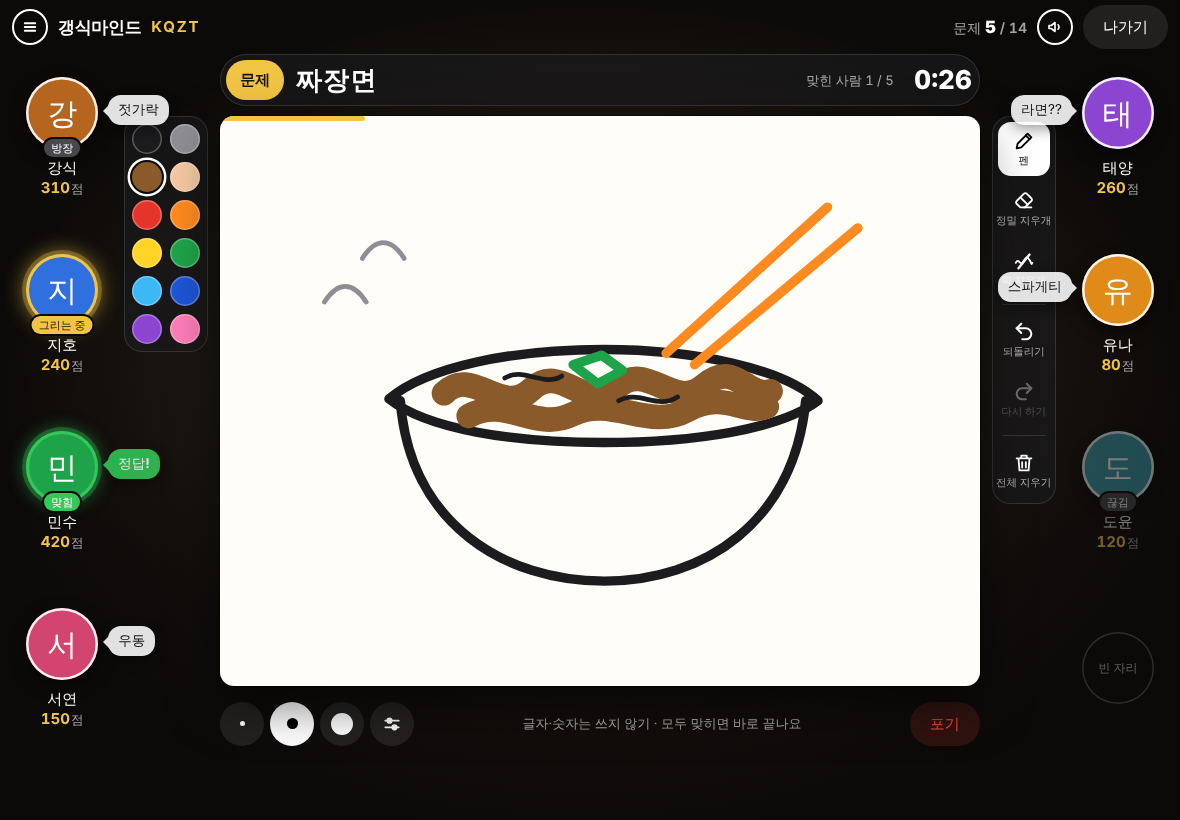
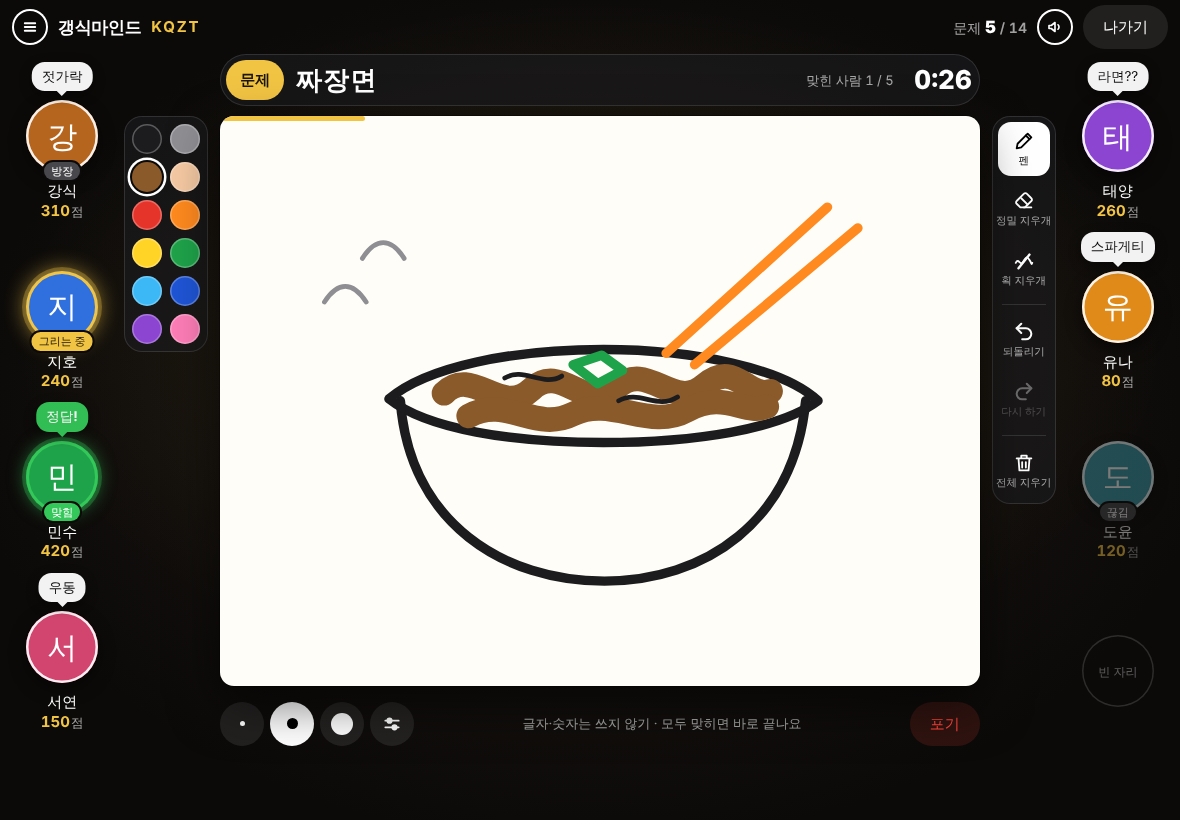
갱식마인드: 기획서 v1.0 확정, 말풍선 위치 수정
Claude-Session: https://claude.ai/code/session_01HLnaqZjB45q4jBceVSssci

diff --git a/design/draw/index.html b/design/draw/index.html
@@ -92,7 +92,14 @@ svg{display:block}
 .dr-seats.r .dr-say::before{right:-12px;border-left-color:#fff}
 .dr-say.ok{background:var(--green);color:#fff;font-weight:700}
 .dr-seats.l .dr-say.ok::before{border-right-color:var(--green)}.dr-seats.r .dr-say.ok::before{border-left-color:var(--green)}
-.mine .dr-say{max-width:104px;opacity:.88}
+/* 그리는 사람 화면(PC·iPad): 말풍선을 프로필 위로 띄워 색·도구 칸을 가리지 않는다 */
+@media (min-height:481px){
+  .mine .dr-seats{padding-top:26px}
+  .mine .dr-seats .dr-say{left:50%;right:auto;top:auto;bottom:calc(100% + 9px);max-width:118px;transform:translateX(-50%);transform-origin:50% 100%;animation-name:dr-pop-up}
+  .mine .dr-seats .dr-say::before{top:auto;bottom:-12px;left:50%;right:auto;margin-left:-7px;border-color:transparent;border-top-color:#fff}
+  .mine .dr-seats .dr-say.ok::before{border-color:transparent;border-top-color:var(--green)}
+}
+@keyframes dr-pop-up{from{transform:translateX(-50%) scale(.4);opacity:0}}
 @keyframes dr-pop{from{transform:scale(.4);opacity:0}}
 @media (prefers-reduced-motion:reduce){.dr-say{animation:none}}
 .mk-still .dr-say{animation:none}

diff --git a/docs/draw/GDD.md b/docs/draw/GDD.md
@@ -1,9 +1,9 @@
-# 갱식마인드 기획서 (GDD) — v0.2
+# 갱식마인드 기획서 (GDD) — v1.0 확정판
 
 갱식 클럽 안의 네 번째 게임. 한 사람이 단어를 그림으로 그리고 나머지가 채팅으로 맞힌다.
-표시: ✅ 사용자가 정함 · ☑ 기본안(사용자가 정하지 않아 기획이 정함. 바꿀 수 있음) · ⬜ 미정(사용자 확인 필요, 13절).
+표시: ✅ 사용자가 정함 · ☑ 기본안(사용자가 정하지 않아 기획이 정함. 바꿀 수 있음) · ⬜ 미정. 확정 상태는 13절.
 시안: `design/draw/index.html`(정적, 가짜 데이터) · 스크린샷 `design/draw/shots/`.
-이 문서는 기획이다. 코드는 아직 없다. 3D·소리·실기기 느낌(iPad·Safari·펜슬)은 전부 **미확인(실기기 확인 필요)**.
+이 문서가 구현의 기준이다(통신은 10절, 모듈 나누기는 11-1절). 코드는 아직 없다. 3D·소리·실기기 느낌(iPad·Safari·펜슬)은 전부 **미확인(실기기 확인 필요)**.
 
 ## 1. 한 줄 소개와 이름
 
@@ -86,11 +86,11 @@
 ### 3-4. 한 문제의 끝과 점수 (✅ 사용자: "여러 명이 맞힐 때까지, 빠를수록 높은 점수")
 
 - 한 문제는 **시간이 끝나거나, 그리는 사람을 뺀 모두(접속 중인 사람)가 맞히면** 끝난다. 그 밖에 포기·넘김·그리는 사람 나감.
-- ☑ 첫 정답이 나왔을 때 남은 시간이 30초보다 길면 **30초로 줄인다**(기다리는 시간이 길어지지 않게. 화면에 "30초 남았어요").
-- 맞힌 사람 점수 = **40 + 60 × (맞힌 순간 남은 시간 ÷ 그리는 시간)**, 소수점 반올림. **첫 정답자는 +20.**
+- ✅ 첫 정답이 나왔을 때 남은 시간이 30초보다 길면 **30초로 줄인다**(기다리는 시간이 길어지지 않게. 화면에 "30초 남았어요").
+- ✅ 맞힌 사람 점수 = **40 + 60 × (맞힌 순간 남은 시간 ÷ 그리는 시간)**, 소수점 반올림. **첫 정답자는 +20.**
   - 예(2분 20초, 5명이 맞히는 중): 18초에 첫 정답 → 40 + 52 + 20 = **112점**. 시간이 30초로 줄고, 25초 남기고 맞히면 40 + 11 = **51점**, 14초 남기고 맞히면 **46점**.
   - 한 문제에서 맞힌 사람은 최소 40점, 최대 120점.
-- 그린 사람 점수 = **100 × (맞힌 사람 수 ÷ 맞힐 수 있던 사람 수)**, 반올림. 예: 5명 중 3명 → 60점. 모두 맞히면 100점.
+- ✅ 그린 사람 점수 = **100 × (맞힌 사람 수 ÷ 맞힐 수 있던 사람 수)**, 반올림. 예: 5명 중 3명 → 60점. 모두 맞히면 100점.
 - 아무도 못 맞히면 모두 0점. 포기·넘김·나감이면 그린 사람은 0점, 이미 맞힌 사람의 점수는 그대로.
 - 순위: 점수 큰 순 → 맞힌 횟수 큰 순 → 같으면 공동 순위.
 
@@ -129,7 +129,7 @@
 - ☑ 기본으로 쓰는 주제 8개(800개): 음식, 동물, 직업, 장소, 스포츠, 물건, 취미, 탈것.
 - ☑ 기본으로 끄는 주제 3개: 영화·만화, 나라·도시, 인물 — 그림으로 설명하기 어렵고 글자를 쓰고 싶어진다. 방장이 방 설정에서 켤 수 있다.
 - ☑ 스타 버전 묶음(`sets.star`)은 1차에서 쓰지 않는다(연예인·브랜드·롤챔프는 그리기 어렵다).
-- ⬜ 그림용으로 단어를 따로 고르는 일(너무 어려운 단어 빼기)은 실제로 해 본 뒤 결정. 필요하면 `docs/draw/WORDS.md`에 "빼는 단어" 목록만 둔다(원본은 그대로).
+- ☑ 그림용으로 단어를 따로 고르는 일(너무 어려운 단어 빼기)은 실제로 해 본 뒤 결정. 필요하면 `docs/draw/WORDS.md`에 "빼는 단어" 목록만 둔다(원본은 그대로).
 
 ## 6. 그림판
 
@@ -178,7 +178,7 @@
 |---|---|
 | 네모·원(테두리/채움) | 손으로 그리는 게 더 빠르고 버튼 4개가 휴대폰 자리를 차지한다 |
 | 직선 | 쓸 일이 드물다 |
-| 채우기(페인트 통) | 부드러운 선(가장자리가 흐림)과 만나면 틈·테두리가 남고 기기마다 결과가 달라질 수 있다. 굵게 24로 대신 칠한다. ⬜ 해 보고 아쉬우면 2차에 추가 |
+| 채우기(페인트 통) | 부드러운 선(가장자리가 흐림)과 만나면 틈·테두리가 남고 기기마다 결과가 달라질 수 있다. 굵게 24로 대신 칠한다. ✅ 빼고 시작. 해 보고 아쉬우면 2차에 추가 |
 | 투명도·크기 막대 | 맞히기에 도움이 안 되고 조작이 하나 늘어난다 |
 | 색 직접 만들기·스포이드 | 12색이면 충분하다 |
 | 확대·이동, 겹(레이어) | 2분짜리 그림에 과하다 |
@@ -216,7 +216,7 @@
 | 좌표 | 그림판은 항상 4:3, 내부 좌표 **1600×1200**(= 800×600의 반 픽셀 단위 정수). 화면 크기가 달라도 모두 같은 그림을 본다 |
 | 입력 | Pointer Events 하나로 마우스·손가락·펜을 받는다. `pointermove`마다 `getCoalescedEvents()`로 **브라우저가 묶어 버린 중간 점까지 전부** 쓴다(없으면 마지막 점만) |
 | 점 간격 | 앞 점과 **2px(800 기준) 미만**이면 버린다. 한 번 누르고 떼기만 하면 점 하나(동그라미)로 그린다 |
-| 떨림 줄이기 | 새 점 = 앞 점 35% + 손 위치 65%(가벼운 보정). 펜슬은 보정 없음(100%). ⬜ 값은 실기기에서 조절 |
+| 떨림 줄이기 | 새 점 = 앞 점 35% + 손 위치 65%(가벼운 보정). 펜슬은 보정 없음(100%). ☑ 값은 실기기에서 조절 |
 | 곡선 | 점과 점을 직선으로 잇지 않는다. **가운뎃점 2차 베지어**: 이웃한 두 점의 가운뎃점에서 다음 가운뎃점까지, 실제 점을 조절점으로 `quadraticCurveTo`. 각이 지지 않는다 |
 | 선 끝·이음 | `lineCap = 'round'`, `lineJoin = 'round'` |
 | 선명함 | 캔버스 실제 크기 = 보이는 크기 × `devicePixelRatio`(최대 2). 화면 크기가 바뀌면 저장된 선으로 다시 그린다(그림이 흐려지거나 사라지지 않는다) |
@@ -254,7 +254,7 @@
   - 표시 시간 **3.5초** 뒤 흐려지며 사라진다. 같은 사람이 새로 말하면 바로 **교체**한다.
   - 최대 폭 170px, **두 줄**까지 줄바꿈, 넘으면 `…`. 휴대폰은 한 줄·최대 124px.
   - 그림을 가리지 않게: 말풍선은 칸과 그림판 사이의 빈 자리에 뜨고, 길면 **그림판 가장자리에 조금 겹친다**(왼쪽·오른쪽 끝은 그림이 드문 자리). 약간 비치게(95%) 하고 **누를 수 없게** 한다(밑의 색·도구가 그대로 눌린다).
-    그리는 사람 화면에서는 색·도구 칸을 덜 가리도록 폭을 104px로 줄이고 더 비치게(88%) 한다.
+    ✅ **그리는 사람 화면(PC·iPad)에서는 말풍선을 프로필 위쪽으로 띄운다**(꼬리가 아래). 색·도구 칸과 그림판을 가리지 않는다. 폭 최대 118px.
   - 정답을 맞힌 말: 글자는 보이지 않고 **초록 말풍선 "정답!"** 만 뜬다. 맞힌 사람끼리 하는 말: 맞힌 사람·그리는 사람에게는 초록 테두리 말풍선으로 글이 보이고, 못 맞힌 사람에게는 **아무것도 뜨지 않는다**(글이 전송되지 않는다).
   - 휴대폰 가로: 맞히는 사람은 왼쪽 목록의 줄 옆으로 말풍선이 튀어나와 그림판 왼쪽 끝에 겹친다(오른쪽 채팅 기록도 그대로). 그리는 사람은 그림판·색을 가리지 않게 **그 줄 안**(점수 자리)에 잠깐 뜬다.
   - 움직임: 말풍선은 꼬리 쪽에서 톡 커지며 나타난다(0.28초).
@@ -332,59 +332,157 @@
 - 그림 선은 서버가 그대로 전달하되 형식·범위·양을 검사하고, 그 문제의 선 목록을 기억한다(재전송용). 문제가 끝나면 지운다.
 - 갱식마인드 방에서 포커·라이어 전용 요청이 오면 `'지금은 할 수 없습니다.'`(죽지 않는다).
 
-## 10. 통신 메시지 (제안. 확정되면 SPEC 7절에 먼저 적는다)
+## 10. 통신 메시지 (✅ 확정. 서버와 화면은 이 절만 보고 따로 만든다. 바꾸려면 이 절을 먼저 고친다)
 
-기존 `login`·`create`·`join`·`leave`·`start`·`chat`·`room`·`event`·`error`를 그대로 쓴다. 갱식마인드 전용 요청은 전부 **`{t:'dr', a: 종류, ...}`** 한 봉투.
+WebSocket `/ws`, JSON, `{t: 종류, ...}`. 기존 SPEC 7절을 그대로 쓰고 갱식마인드에 필요한 것만 더한다.
+갱식마인드 전용 요청은 전부 **`{t:'dr', a: 종류, ...}`** 한 봉투. `protocol.js`는 봉투(`t:'dr'`, `a`는 글자 1~20자)만 보고, 속은 `shared/draw/protocol.js`가 검사한다.
+방은 `mode:'draw'`. 서버가 모든 규칙과 시간을 판정한다. 화면의 진짜 상태는 항상 `room.state`이고, **그림만 예외로 `event`가 진짜 데이터**다(10-5).
 
-화면 → 서버
+### 10-1. 공통 값
 
-| 메시지 | 필드 | 누가·언제 | 설명 |
+| 이름 | 값 |
+|---|---|
+| 좌표 | 정수. x `0..1600`, y `0..1200`(= 800×600의 반 픽셀 단위) |
+| 색 `c` | 정수 `0..11`(6-2 색 표의 순서 − 1) |
+| 굵기 `w` | 정수 `2..40`(800×600 기준 px) |
+| 점 배열 `p` | 정수 배열. **선의 첫 메시지(`st`)** 는 `[x0, y0, dx1, dy1, dx2, dy2, ...]`, **이어지는 메시지(`pt`)** 는 `[dx, dy, ...]`(바로 앞 점과의 차이). 길이는 짝수, 한 메시지에 최대 128개 숫자(64점), 차이값은 `-1600..1600` |
+| 한 일(op) | `{c, w, e, p}`(선. `e:0` 펜, `e:1` 정밀 지우개. `p`는 `st`와 `pt`를 이어 붙인 것) · `{rm:[선 번호...]}`(획 지우개 한 묶음) · `{clear:1}`(전체 지우기) |
+| 선 번호 | 그 한 일이 목록 `ops`에서 차지하는 **자리 번호**(0부터). 서버와 모든 화면이 같은 순서로 세므로 따로 보내지 않는다 |
+| 위치 `at` | 지금 화면에 반영된 한 일의 개수. `ops[0..at)`만 그려진 것이다. 되돌리기 `at-1`, 다시 하기 `at+1` |
+| 한도 | 한 문제에 한 일 600개, 점 60,000개, 선 하나에 점 4,000개 |
+
+한 일 목록 규칙(서버와 화면이 똑같이 적용, `shared/draw/ops.js` 하나를 함께 쓴다):
+- 새 한 일(`st`·`rm`·`clear`)이 오면 `ops`를 `at`까지만 남기고(다시 하기 목록 버림) 뒤에 붙인 뒤 `at = ops.length`.
+- `rm`에 `g:1`이 있고 `ops`의 마지막이 `rm`이며 `at === ops.length`이면 새로 붙이지 않고 그 `rm`의 번호 목록에 더한다.
+- 그리기: `ops[0..at)`을 순서대로. 선은 그리고, `clear`는 종이를 비우고, `rm`에 든 번호의 선은 처음부터 없던 것으로 친다.
+- `rm`의 번호는 `at`보다 작고, 펜 선(`e:0`)이고, 이미 지워지지 않은 것만 받는다.
+
+### 10-2. 화면 → 서버
+
+기존 메시지: `login`, `avatar`, `join{code}`, `leave`, `emote`, `pemote`, `snd…`는 그대로.
+
+| 메시지 | 필드(타입) | 누가·언제 | 결과 |
 |---|---|---|---|
-| `create` | `mode:'draw'` | 로비 | 방 만들기. `DRAW=off`면 `'갱식마인드는 아직 열리지 않았습니다.'` |
-| `start` | | 방장, 방 대기·최종 순위 | 시작 / 한 판 더 |
-| `chat` | `text` | 맞히는 사람 | 정답 입력을 겸한다(1~40자). 그리는 사람은 거절. 정답이면 채팅으로 내보내지 않는다. 맞힌 사람의 글은 맞힌 사람·그리는 사람에게만 |
-| `dr` `settings` | `order?:'seq'\|'hit'\|'rand'`, `rounds?:1\|2\|3\|5`, `time?:60\|90\|140`, `len?:bool`, `topics?:[이름]` | 방장, 방 대기 | 바꿀 것만 |
-| `dr` `pick` | `i:0..2` | 그리는 사람, 단어 고르기 | |
-| `dr` `st` | `c:0..11`, `w:2..40`, `e:0\|1`, `p:[x,y, dx,dy, ...]` | 그리는 사람, 그리기 | 새 선 시작. `w`는 굵기(px), `e:1`은 정밀 지우개. 첫 점은 좌표, 나머지는 앞 점과의 차이(정수) |
-| `dr` `pt` | `p:[dx,dy,...]`, `f?:1` | 〃 | 지금 선에 점 추가(60ms마다). `f:1`이면 선 끝 |
-| `dr` `cx` | | 〃 | 지금 긋던 선 취소(손바닥) |
-| `dr` `rm` | `ids:[선 번호]`, `g?:1` | 〃 | 획 지우개: 그 선들을 지운다. `g:1`이면 바로 앞 `rm`과 같은 묶음(한 번 문지른 것). 서버는 번호가 있고 펜 선인지 검사 |
-| `dr` `undo` | | 〃 | 되돌리기(한 칸 뒤로) |
-| `dr` `redo` | | 〃 | 다시 하기(한 칸 앞으로). 살릴 것이 없으면 무시 |
-| `dr` `clear` | | 〃 | 전체 지우기 |
-| `dr` `give` | | 〃 | 포기 |
-| `dr` `skip` | | 방장, 그리기 | 이 문제 넘기기 |
-| `dr` `end` | | 방장, 진행 중 | 이 판 끝내기(방 대기로) |
-| `dr` `kick` | `id` | 방장, 방 대기 | 내보내기 |
+| `create` | `mode:'draw'` | 로비 | 방 생성. 스위치가 꺼져 있으면 `dr_off` |
+| `start` | — | 방장, `lobby`·`final` | 새 판. 접속 중 2명 미만이면 `dr_need2`, 켜진 주제가 없으면 `dr_topics` |
+| `chat` | `text: string`(1~40자) | 10-6 표 | 정답 판정을 겸한다 |
+| `dr` `settings` | `order?: 'seq'\|'hit'\|'rand'`, `rounds?: 1\|2\|3\|5`, `time?: 60\|90\|140`, `len?: boolean`, `topics?: string[]`(주제 이름, 1개 이상) | 방장, `lobby`·`final` | 보낸 칸만 바뀐다. 값이 틀리면 `dr_bad` |
+| `dr` `kick` | `id: string` | 방장, `lobby`·`final` | 내보냄(그 사람에게 `room:null` + `error dr_kicked`) |
+| `dr` `pick` | `i: 0\|1\|2` | 그리는 사람, `pick` | 단어 확정 → `draw` |
+| `dr` `st` | `c`, `w`, `e: 0\|1`, `p`(첫 메시지 모양) | 그리는 사람, `draw` | 새 선 시작. 앞 선이 안 끝났으면 끝난 것으로 친다 |
+| `dr` `pt` | `p`(이어지는 모양), `f?: 1` | 〃, 긋는 중인 선이 있을 때 | 점 추가. `f:1`이면 선 끝. 60ms마다 한 번 |
+| `dr` `cx` | — | 〃, 긋는 중 | 긋던 선을 없던 것으로(손바닥). 되돌리기 목록에 남지 않는다 |
+| `dr` `rm` | `ids: number[]`(1~50개), `g?: 1` | 〃, `draw` | 획 지우개 |
+| `dr` `undo` | — | 〃 | `at > 0`이면 `at-1`. 아니면 무시 |
+| `dr` `redo` | — | 〃 | `at < ops.length`이면 `at+1`. 아니면 무시 |
+| `dr` `clear` | — | 〃 | 전체 지우기(종이가 이미 비어 있으면 무시) |
+| `dr` `give` | — | 〃 | 포기 → `reveal`(`why:'give'`) |
+| `dr` `skip` | — | 방장, `pick`·`draw` | 이 문제 넘기기 → `reveal`(`why:'skip'`) |
+| `dr` `end` | — | 방장, `pick`·`draw`·`reveal` | 이 판 끝내기 → `lobby`(점수 저장 안 함) |
 
-서버 → 화면
+- 그림 요청(`st`·`pt`·`cx`·`rm`·`undo`·`redo`·`clear`)이 틀렸을 때(범위 밖, 한도 초과가 아닌 형식 오류, 그리는 사람이 아님, 단계가 다름)는 **오류 글 없이 버린다.** 보낸 사람이 그리는 사람이면 `drSync`를 다시 보내 화면을 서버와 맞춘다.
+- 한도를 넘으면 `dr_canvas_full`을 그리는 사람에게 보내고 그 선은 버린다.
+- 다른 방(포커·라이어)에서 `dr`이 오면 `'알 수 없는 요청입니다.'`. 갱식마인드 방에서 `mode`·`act`·`play`·`liar`·`lg`가 오면 `dr_now`.
 
-- `{t:'me', user, liar, draw:'off'|'test'|'on'}` — `me`에 `draw` 칸 하나 추가. 보이기 = `draw==='on' || (draw==='test' && 주소에 ?draw=1)`.
-- `rooms` 목록 항목에 `mode:'draw'`, `max:8`.
-- `room.state`(받는 사람 시점, `mode:'draw'`):
+### 10-3. 서버 → 화면
+
+| t | 필드 | 누구에게 | 설명 |
+|---|---|---|---|
+| `me` | `user{…, stats{…, draw{games, wins, correct, points}}}`, `liar`, **`draw: 'off'\|'test'\|'on'`** | 본인 | `draw` 칸 하나 추가. 보이기 = `draw==='on' \|\| (draw==='test' && 주소에 ?draw=1)` |
+| `rooms` | `list[]`의 항목에 `mode:'draw'`, `max:8`, `phase:'lobby'\|'playing'` | 로비에 있는 사람 | `lobby`·`final`이 아니면 `'playing'` |
+| `room` | `state`(10-4) 또는 `null` | 방 사람 각자(받는 사람 시점) | 바뀔 때마다. 그림이 바뀔 때는 보내지 않는다 |
+| `event` | `e{k, …}`(10-5) | 표에 적힌 사람 | |
+| `error` | `msg: string`(한국어), `code: string` | 본인 | 10-7. `code`는 시험과 화면 분기용(다른 게임의 오류에는 없어도 된다) |
+
+### 10-4. `room.state` (받는 사람 시점, `mode:'draw'`)
 
 ```js
-{ code, mode:'draw', hostId, you,
-  phase: 'lobby'|'pick'|'draw'|'reveal'|'final',
-  settings: { order, rounds, time, len, topics },
-  players: [{ id, name, seat, connected, score, hit }],        // hit = 이번 문제를 맞혔는가. 사진은 넣지 않는다(faces 알림으로 한 번)
-  roundNo, q, qTotal,                 // 1라운드, 문제 5 / 14
-  drawerId, endsAt,                   // 단계 끝 시각(epoch ms)
-  mask: '□□□' | null,                 // 글자 수 칸(띄어쓰기 자리는 공백). 끄면 null
-  word: null | '짜장면',              // 그리는 사람·이미 맞힌 사람, 또는 reveal 단계에서만
-  choices: null | [{w, topic}],       // 그리는 사람, pick 단계에서만
-  canUndo, canRedo,                   // 그리는 사람 버튼 흐리게 하기용
-  reveal: null | { word, why: 'all'|'time'|'give'|'idle'|'skip'|'left',
-                   gains: [{ id, pts, order }], drawerPts, nextId },
-  ranking: null | [{ id, rank, score, correct }] }             // final 단계
+{
+  code: 'KQZT', mode: 'draw', hostId: 'gangsik', you: 'jiho',
+  phase: 'lobby' | 'pick' | 'draw' | 'reveal' | 'final',
+  settings: { order: 'seq'|'hit'|'rand', rounds: 1|2|3|5, time: 60|90|140, len: true|false,
+              topics: ['음식', ...],            // 켜진 주제
+              allTopics: ['음식', ...] },       // 고를 수 있는 주제 전부(11개)
+  players: [{ id, name, seat,                   // seat = 자리 번호 0..7(들어온 순서, 빈 번호 채움)
+              connected: bool,
+              score: number,                    // 이번 판 점수
+              correct: number,                  // 이번 판에 맞힌 횟수
+              hit: bool,                        // 이번 문제를 맞혔는가(pick·draw 동안. 그 밖에는 false)
+              drew: bool }],                    // 이번 라운드에 이미 그렸는가
+  roundNo: 1, q: 5, qTotal: 14,                 // lobby 에서는 0, 0, 0
+  drawerId: id | null,                          // pick·draw·reveal 동안
+  endsAt: epochMs | null,                       // pick·draw·reveal 단계의 끝 시각. 첫 정답으로 줄면 새 값
+  rushed: bool,                                 // 첫 정답 뒤 30초로 줄어든 상태인가
+  mask: '□□□' | null,                           // draw 동안. 글자마다 □, 띄어쓰기 자리는 공백. settings.len 이 false 면 null
+  word: string | null,                          // ★ 그리는 사람(draw·reveal), 이미 맞힌 사람(draw), reveal 단계의 모두. 그 밖에는 null
+  choices: [{ w, topic }, x3] | null,           // ★ 그리는 사람, pick 단계에서만
+  canUndo: bool, canRedo: bool,                 // 그리는 사람에게만 뜻이 있다(나머지는 false)
+  reveal: null | {                              // reveal 단계
+    word, why: 'all'|'time'|'give'|'idle'|'skip'|'left',
+    gains: [{ id, pts, order }],                // 맞힌 사람들, order 1 = 첫 정답
+    drawerPts: number, guessers: number,        // 그린 사람 점수, 맞힐 수 있던 사람 수
+    nextId: id | null },                        // 다음에 그릴 사람(마지막 문제면 null)
+  ranking: null | [{ id, name, rank, score, correct }]   // final 단계. 나간 사람도 남는다
+}
 ```
 
-- `event.e`: `{k:'drSt', c,w,e,p}` · `{k:'drPt', p,f}` · `{k:'drCx'}` · `{k:'drRm', ids, g}` · `{k:'drUndo'}` · `{k:'drRedo'}` · `{k:'drClear'}`(그리는 사람 것을 나머지에게 전달) ·
-  `{k:'drSync', ops:[{c,w,e,p} | {rm:[ids]} | {clear:1}], at:n, open:bool}`(들어오거나 다시 붙은 사람에게 한 일 목록 전부와 지금 위치, 한 번) ·
-  `{k:'drHit', id, order}`("○○ 님 정답!" 알림. 점수는 정답 공개 때) · `chat`에 `sec:1`(정답자끼리 글 표시) · `faces`·`chat`·`chatLog`는 기존과 같음.
-- 그림만은 예외로 `event`가 진짜 데이터다(상태에 그림을 넣으면 선 하나마다 방 상태 전체를 다시 보내야 한다). 놓쳤을 때는 재접속하면 `drSync`로 맞춘다.
+- ★ 표시가 "정답이 새지 않는다" 약속의 대상이다. `word`·`choices`를 다른 사람 상태에 넣지 않는다(`test/draw/leaks.test.js`).
+- 프로필 사진은 상태에 넣지 않는다. 라이어게임과 같은 `faces` 알림으로 보낸다.
+- 그림은 상태에 넣지 않는다(10-5).
 
-전송량 어림: 그리는 한 사람이 초당 16개 × 받는 사람 7명 = 초당 약 110개의 작은 글. 그림 한 장은 보통 수십 KB. Render 무료 서버에 무리가 없다(추정, 실제 시험 필요).
+### 10-5. `event.e`
+
+| k | 필드 | 누구에게 | 언제 |
+|---|---|---|---|
+| `drSt` | `c, w, e, p` | 그리는 사람을 뺀 방 전원 | 그리는 사람의 `st`를 그대로 전달 |
+| `drPt` | `p, f?` | 〃 | `pt` 전달 |
+| `drCx` | — | 〃 | `cx` 전달 |
+| `drRm` | `ids, g?` | 〃 | `rm` 전달(서버가 받아들인 번호만) |
+| `drUndo` / `drRedo` / `drClear` | — | 〃 | 전달 |
+| `drSync` | `ops: op[]`, `at: number`, `cur: {c,w,e,p} \| null` | 한 사람 | ① 방에 들어오거나 다시 붙었을 때(그리는 사람 포함) ② 그리는 사람의 그림 요청을 버렸을 때. `cur`은 지금 긋는 중인 선(아직 `ops`에 없다). 받은 쪽은 자기 그림을 버리고 이것으로 다시 그린다. `pick`·`reveal`·`lobby`·`final`에서는 `ops:[]`가 아닐 수도 있다(reveal 동안은 그림을 남긴다) |
+| `drNew` | — | 방 전원 | 새 문제가 시작됨(`pick` 진입). 모두 종이와 한 일 목록을 비운다 |
+| `drHit` | `id, order: number` | 방 전원 | 누가 맞힘. "○○ 님 정답!" 알림·소리·모션용. 점수는 `reveal` 때 |
+| `chat` | `id, name, text, ts, sec?: 1` | `sec` 없음: 방 전원. `sec:1`: 이미 맞힌 사람과 그리는 사람만 | 채팅. 정답 글은 `chat`으로 나가지 않는다 |
+| `chatLog` | `items: [{id, name, text, ts, sec?}]` | 한 사람 | 입장·재접속 때 최근 30개. 받는 사람이 못 맞힌 상태면 `sec:1`인 것은 뺀다 |
+| `faces` | `items: [{id, avatar}]` | 라이어게임과 같음 | 입장·재접속 때 전원 것, 누가 들어오거나 사진을 바꾸면 그 사람 것 |
+| `joined` / `left` / `away` / `back` | `id, name?` | 방 전원 | 라이어게임과 같음 |
+| `emote` `pemote` `snd` `sndAdd` `sndDel` `sndRename` `sndList` | 기존과 같음 | 기존과 같음 | 10-6 표로 막는 때가 있다 |
+
+재접속 순서: `room`(상태) → `faces` → `chatLog` → `sndList` → `drSync`. 화면은 `drSync`를 받기 전의 `drSt`·`drPt`를 버린다.
+
+### 10-6. 누가 언제 무엇을 쓸 수 있나
+
+| | 채팅 | 기본 이모티콘 | 사진 이모티콘·사운드 |
+|---|---|---|---|
+| `lobby`·`reveal`·`final` | 모두 | 모두 | 모두 |
+| `pick`·`draw` — 그리는 사람 | ✕ `dr_drawer_mute` | ✕ `dr_drawer_mute` | ✕ `dr_drawer_mute` |
+| `pick`·`draw` — 못 맞힌 사람 | ○ 방 전원에게. 정답이면 `drHit` | ○ | ○ |
+| `draw` — 맞힌 사람 | ○ `sec:1`(맞힌 사람·그리는 사람에게만) | ○ | ✕ `dr_hit_media` |
+
+- 채팅 1~40자, 연결당 1초 3개·10초 15개(넘으면 `dr_chat_fast`). 앞의 크기 표시(`#`, `*`)는 정답 판정 전에 뗀다.
+- 정답 판정(`shared/draw/answer.js`): 앞뒤 공백 제거 → NFC → 공백·가운뎃점(`·`)·마침표 제거 → 영문 소문자 → 단어의 `w` 또는 `alt` 중 하나와 완전히 같으면 정답.
+
+### 10-7. 오류 (`{t:'error', msg, code}`)
+
+| code | msg |
+|---|---|
+| `dr_off` | 갱식마인드는 아직 열리지 않았습니다. |
+| `dr_host` | 방장만 할 수 있습니다. |
+| `dr_now` | 지금은 할 수 없습니다. |
+| `dr_bad` | 알 수 없는 요청입니다. |
+| `dr_need2` | 2명 이상이어야 시작할 수 있습니다. |
+| `dr_topics` | 주제를 하나 이상 켜 주세요. |
+| `dr_drawer_mute` | 그림으로만 설명해 주세요. |
+| `dr_hit_media` | 정답 공개 전에는 쓸 수 없습니다. |
+| `dr_chat_fast` | 채팅을 너무 빨리 보내고 있습니다 |
+| `dr_canvas_full` | 그림이 너무 많아요. 전체 지우기를 눌러 주세요. |
+| `dr_kicked` | 방장이 내보냈습니다. |
+
+이름 부분("갱식마인드")은 `GAME_NAME`에서 만든다. 방이 꽉 참·없는 방 코드 등은 기존 오류 글을 그대로 쓴다(`code` 없음).
+
+### 10-8. 전송량 어림
+
+그리는 한 사람이 초당 16개 × 받는 사람 7명 = 초당 약 110개의 작은 글. 그림 한 장은 보통 수십 KB, 한도까지 차도 약 0.5MB. Render 무료 서버에 무리가 없다(추정, 실제 시험 필요).
 
 ## 11. 배포와 숨김 스위치
 
@@ -392,9 +490,41 @@
   `render.yaml`은 `test`로 올리고, 사용자가 실기기에서 확인한 뒤 `on`. `test`는 숨김이지 잠금이 아니다(라이어와 같음).
 - 화면 코드는 `import('./draw/index.js')`로 따로 불러온다(다른 게임만 하는 사람은 받지 않는다).
 - Render 무료 한 대·Neon 그대로. 새 표 없음, 새 서비스 없음. 배포하면 서버가 다시 시작되어 진행 중인 방이 끊긴다(기존과 같음).
-- 구역(제안): `shared/draw/`, `server/draw/`, `client/src/draw/`, `test/draw/`, `docs/draw/`, `design/draw/`.
-- CSS 접두사 **`.dr-`**. 모듈별: 설정 `.dr-st-`, 상단·문제 띠 `.dr-hud-`, 플레이어 칸 `.dr-pl-`, 그림판 `.dr-cv-`, 색·도구 `.dr-tb-`, 정답 공개·순위 `.dr-rs-`.
+- 구역: `shared/draw/`, `server/draw/`, `client/src/draw/`, `test/draw/`, `docs/draw/`, `design/draw/`. CSS 는 전부 `.dr-`, 모듈 접두사는 11-1.
 - 시험: `npm run check`에 로비 칸·방 만들기 클릭, `npm test`에 한 판(`test/ui/draw-round.mjs`: 두 사람이 들어와 선을 긋고, 상대 화면에 선이 도착하고, 정답을 맞히고, 순위까지).
+
+### 11-1. 구현 모듈 나누기 (제안. 한 과제 = 한 줄)
+
+묶음 0(먼저, 한 에이전트): `shared/draw/name.js`·`constants.js`·`protocol.js` + SPEC 7절에 10절 요약 반영. 그다음 아래를 병렬로.
+
+**서버 구역** (`shared/draw/`, `server/draw/`, `test/draw/`)
+
+| 파일 | 하는 일 | 시험 |
+|---|---|---|
+| `shared/draw/name.js` | `GAME_NAME = '갱식마인드'` 한 줄 | — |
+| `shared/draw/constants.js` | 색 12개, 굵기 범위·빠른 값, 좌표 크기, 한도, 시간(고르기 10초·공개 5초·단축 30초·무입력 20초·끊김 15초), 점수 상수 | — |
+| `shared/draw/protocol.js` | `{t:'dr', a, …}` 속 검사(10-2 표). 통과한 것만 방에 넘긴다 | `test/draw/protocol.test.js` |
+| `shared/draw/ops.js` | 그림 한 일 목록(10-1 규칙): 추가·`rm`·되돌리기·다시 하기·전체 지우기·한도. **서버와 화면이 같은 파일을 쓴다** | `ops.test.js` |
+| `shared/draw/answer.js` | 정답 판정, 글자 수 칸(`mask`) 만들기 | `answer.test.js` |
+| `shared/draw/score.js` | 맞힌 사람·그린 사람 점수, 순위 | `score.test.js` |
+| `shared/draw/game.js` | **순수 함수 게임 엔진**(시계·난수·네트워크 없음. 지금 시각과 난수는 인자로 받는다): 단계 전환, 출제 순서 3가지, 라운드, 맞힘 처리, 30초 단축, 끝 조건, 받는 사람별 `viewFor(state, id)` | `game.test.js`, `leaks.test.js` |
+| `server/draw/words.js` | `server/liar/words.json` 읽기(읽기만), 주제 목록, 단어 3개 뽑기(crypto), 나온 단어 기억 | `words.test.js` |
+| `server/draw/room.js` | 방 하나: 타이머, 접속·끊김·재접속, 그림 전달과 `drSync`, 채팅 보낼 대상 가르기(10-6), 이모티콘·사운드 막기, 누적 점수 저장 | `room.test.js` |
+
+**화면 구역** (`client/src/draw/`. 모듈마다 `.js` + `.css` 한 쌍, CSS 는 자기 접두사만)
+
+| 모듈 | 파일 | 접두사 | 하는 일 |
+|---|---|---|---|
+| 입구 | `index.js`, `draw.css` | `.dr-`(뼈대만: `.dr-root`, 배치 격자) | `mount/unmount`, `room`·`event`를 아래 모듈에 나눠 줌, 화면 크기별 배치(PC·iPad / 휴대폰 가로) |
+| 그림판 | `canvas/board.js`, `canvas/input.js`, `canvas/render.js`, `canvas/canvas.css` | `.dr-cv-` | 입력(Pointer Events, 손바닥·펜슬 우선), 부드러운 선(6-3), 내 화면 먼저 그리기, 60ms 묶어 보내기, 받은 선 그리기, `ops.js`로 다시 그리기, 획 지우개 닿음 판정 |
+| 색·도구 | `ui/tools.js`, `ui/tools.css` | `.dr-tb-` | 색 12개, 펜·지우개 둘·되돌리기·다시 하기·전체 지우기·포기, 굵기 3개 + 굵기 조정 창, 단축키 |
+| 상단·문제 | `ui/hud.js`, `ui/hud.css` | `.dr-hud-` | 문제 띠(단어/칸), 남은 시간과 막대, 문제 번호, "맞힌 사람 n/m", 정답 입력 칸(휴대폰은 윗줄, 키보드 대응) |
+| 플레이어 | `ui/players.js`, `ui/players.css` | `.dr-pl-` | 프로필·이름·점수·배지, 말풍선(옆/위/줄 안), 통통 모션, 휴대폰 목록과 채팅 기록 칸 |
+| 방 설정 | `ui/settings.js`, `ui/settings.css` | `.dr-st-` | 방 대기 화면의 설정(출제 순서, 라운드 수, 시간, 주제, 글자 수), 내보내기 |
+| 고르기·결과 | `ui/result.js`, `ui/result.css` | `.dr-rs-` | 단어 고르기 카드, 정답 공개 카드, 최종 순위 |
+| 소리 | `audio.js` | — | 내 차례·정답·10초 남음·시간 끝 |
+
+**통합 구역**(한 번에 한 에이전트, 맨 마지막): `server/protocol.js`(`dr` 봉투, `create mode:'draw'`), 방 관리(방 종류 `draw` 연결, `rooms` 목록), `server/store.js`(`stats.draw`), `me.draw`, `client/src/main.js`(`import('./draw/index.js')`, 상단 줄), `client/src/ui/lobby.js`(4번째 칸, 보이기 조건), `render.yaml`(`DRAW: test`), `test/ui/smoke.mjs`·`test/ui/draw-round.mjs`, SPEC·CLAUDE.md·README.
 
 ## 12. 완성 확인 시나리오
 
@@ -405,14 +535,16 @@
 5. **출제 순서 세 가지**: "맞힌 사람"으로 하면 가장 먼저 맞힌 사람이 다음에 그리고, 한 라운드 안에서 같은 사람이 두 번 그리지 않는다. "랜덤"으로 하면 순서가 매번 다르지만 모두 한 번씩 그린 뒤에야 다음 라운드가 된다. 되돌리기를 세 번 누르고 다시 하기를 두 번 누르면 모든 사람 화면이 같은 그림이다.
 6. **숨김 스위치**: `DRAW=off`면 로비와 서버 어디에도 갱식마인드가 없다. `test`면 `?draw=1` 주소에서만 칸이 보인다. 포커·블러핑·라이어는 전과 똑같이 돌아간다(`npm test` 통과).
 
-## 13. 미정 ⬜ (사용자 확인 필요)
+## 13. 확정 상태
 
-확정된 것: 이름(갱식마인드), 단어 3개 중 고르기, 출제 순서 3가지 + 라운드 수 따로, 여러 명이 맞힐 때까지 + 빠를수록 높은 점수, 채우기 빼고 시작, 되돌리기·다시 하기.
+사용자가 확정한 것(✅, 2026-11-13): 이름 갱식마인드 · 단어 3개 중 고르기 · 출제 순서 3가지와 라운드 수 따로 · 여러 명이 맞힐 때까지, 빠를수록 높은 점수 ·
+**첫 정답 뒤 남은 시간 최대 30초** · **맞힌 사람 40~120점, 그린 사람 최대 100점** · 채우기 빼고 시작 · 되돌리기와 다시 하기 · 획 지우개와 정밀 지우개 ·
+굵기 조정 버튼 · 프로필 옆으로 튀어나오는 말풍선(**그리는 사람 화면에서는 프로필 위로**) · 큰 네모 칸 대신 큰 프로필 + 통통 모션.
 
-1. 점수 수치(40 + 60×남은 비율, 첫 정답 +20, 그린 사람 100×비율)는 기본안. 해 보고 조절.
-2. 첫 정답 뒤 남은 시간을 30초로 줄이는 것(기본안: 줄인다).
-3. "맞힌 사람"·"랜덤"에서도 한 라운드에 한 사람이 한 번만 그리는 것(기본안: 그렇다).
-4. 맞힌 사람의 채팅을 정답자끼리만 보이게 하는 것(기본안: 그렇다).
+기획이 정한 채로 가는 것(☑. 해 보고 바꿀 수 있다): 한 라운드에 한 사람이 한 번만 그리기, 맞힌 사람의 채팅은 정답자끼리만, 글자 수 칸 표시, 무입력 20초 넘김,
+기본으로 끄는 주제 3개, 색 12개의 값, 떨림 보정 값, 전체 랭킹 없음.
+
+남은 미정 ⬜: 없음. 실기기 확인이 필요한 것(선 느낌, 펜슬·손바닥, 휴대폰 키보드, 모션, 소리)은 만든 뒤 사용자가 확인한다.
 
 ## 14. 출처
 
@@ -428,3 +560,4 @@
 - 2026-11-13 사용자 결정: 이름 갱식마인드. 출제 순서 3가지(순서대로·맞힌 사람·랜덤)와 라운드 수를 방장이 따로 설정. 여러 명이 맞힐 때까지 계속, 빠를수록 높은 점수. 단어 3개 중 고르기 유지. 채우기는 빼고 시작. 되돌리기와 다시 하기는 반드시 넣는다.
 - 2026-11-13 사용자 결정(추가): 지우개를 획 지우개·정밀 지우개 둘로. 굵기 조정 버튼 추가(2~40px). 말풍선은 플레이어 칸 옆으로 튀어나오게.
 - 2026-11-13 사용자 결정(추가): 플레이어 표시는 큰 네모 칸 대신 큰 동그란 프로필 + 이름·점수. 말할 때마다 프로필이 통통 튀고, 맞히면 더 크게 뛴다.
+- 2026-11-13 v1.0 확정판: 첫 정답 뒤 30초 단축, 점수 수치, 그리는 사람 화면의 말풍선은 프로필 위로 — 사용자 확정. 통신 메시지(10절) 확정, 구현 모듈 나누기(11-1절) 추가.
